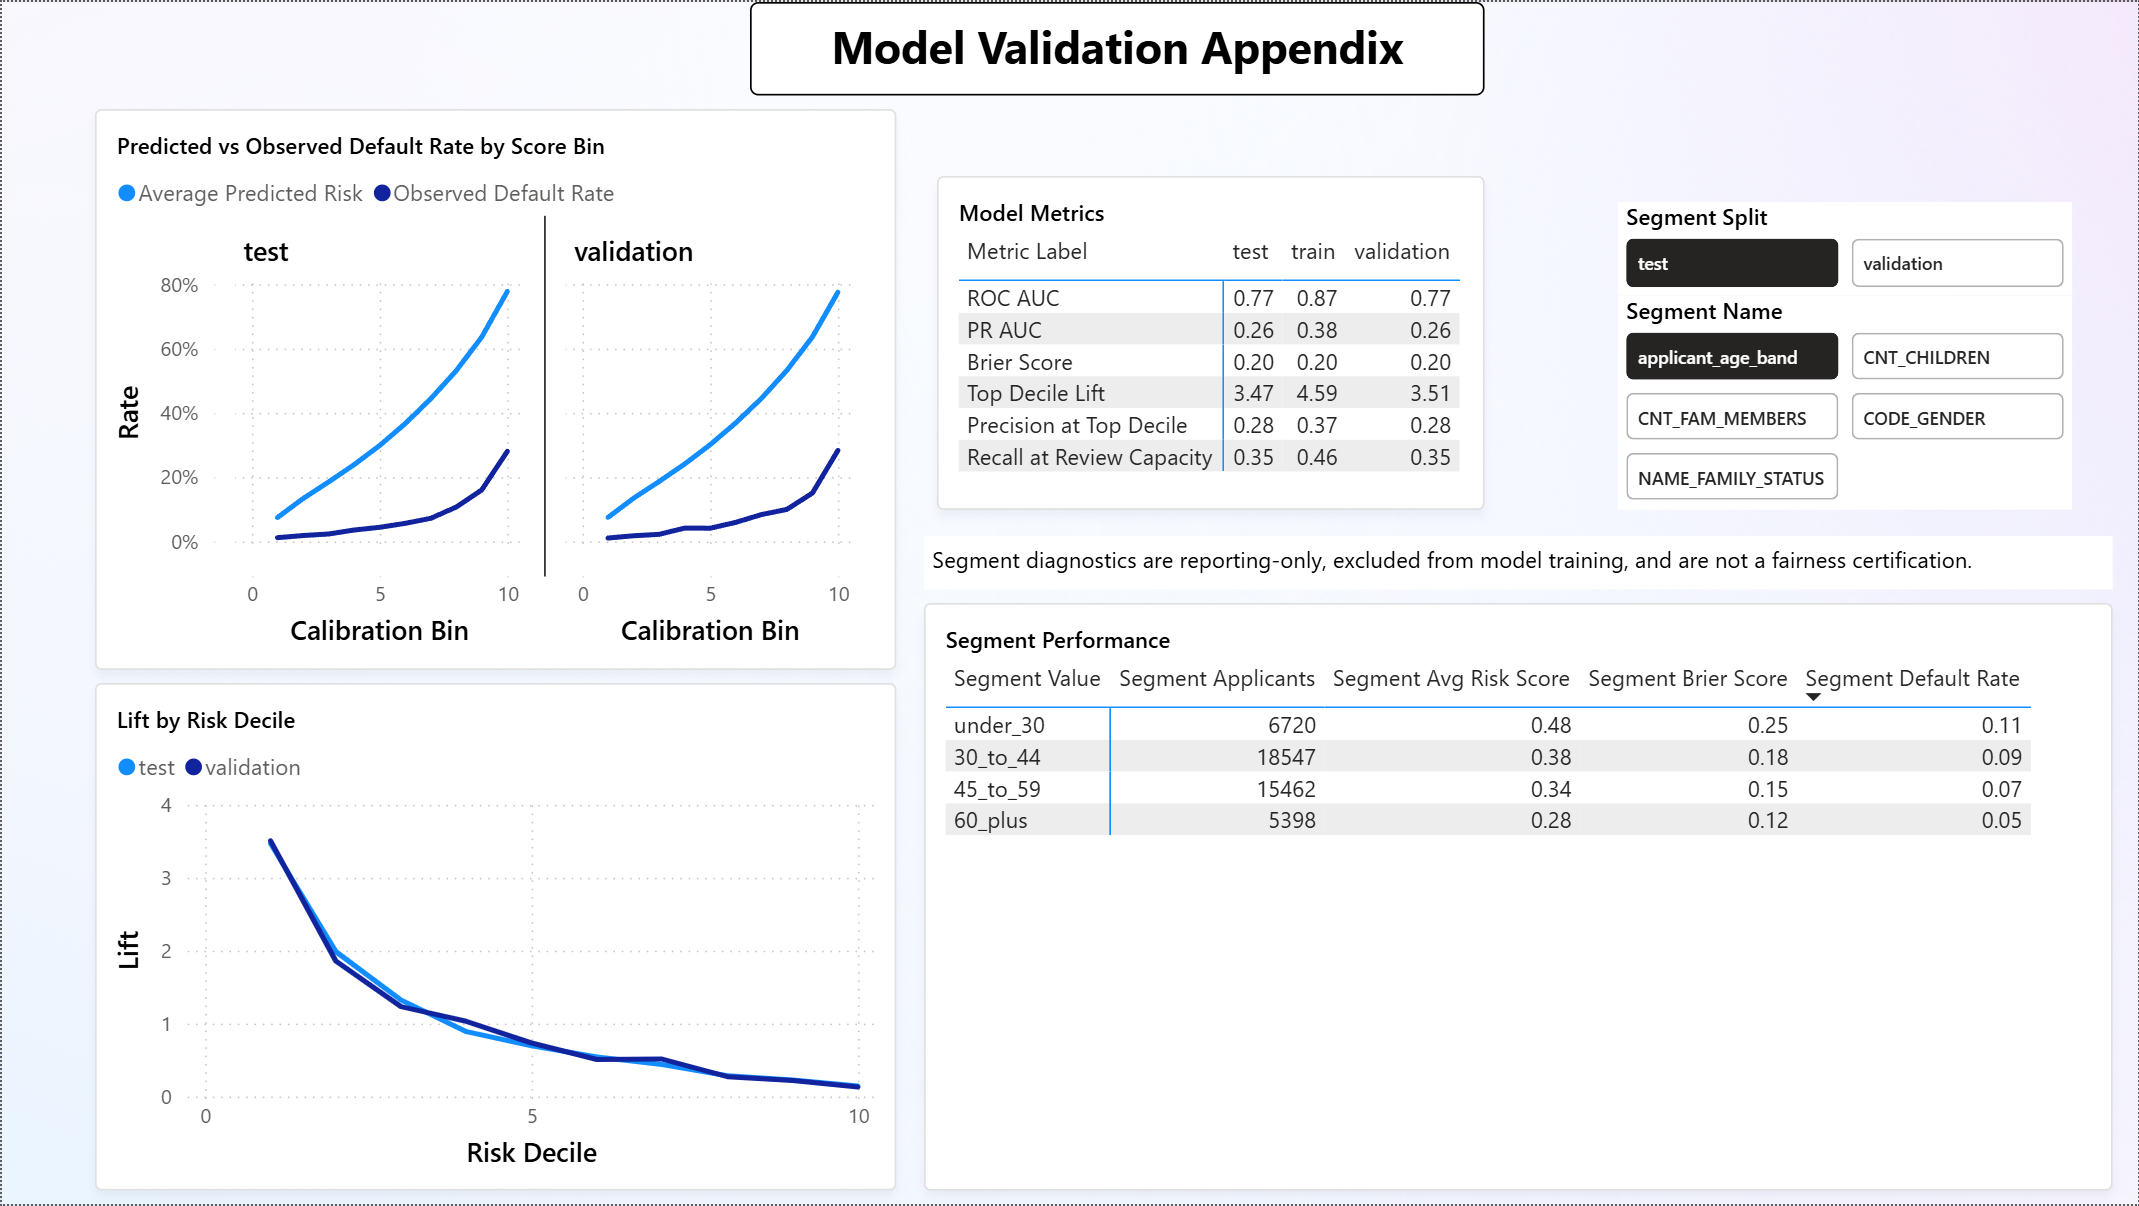
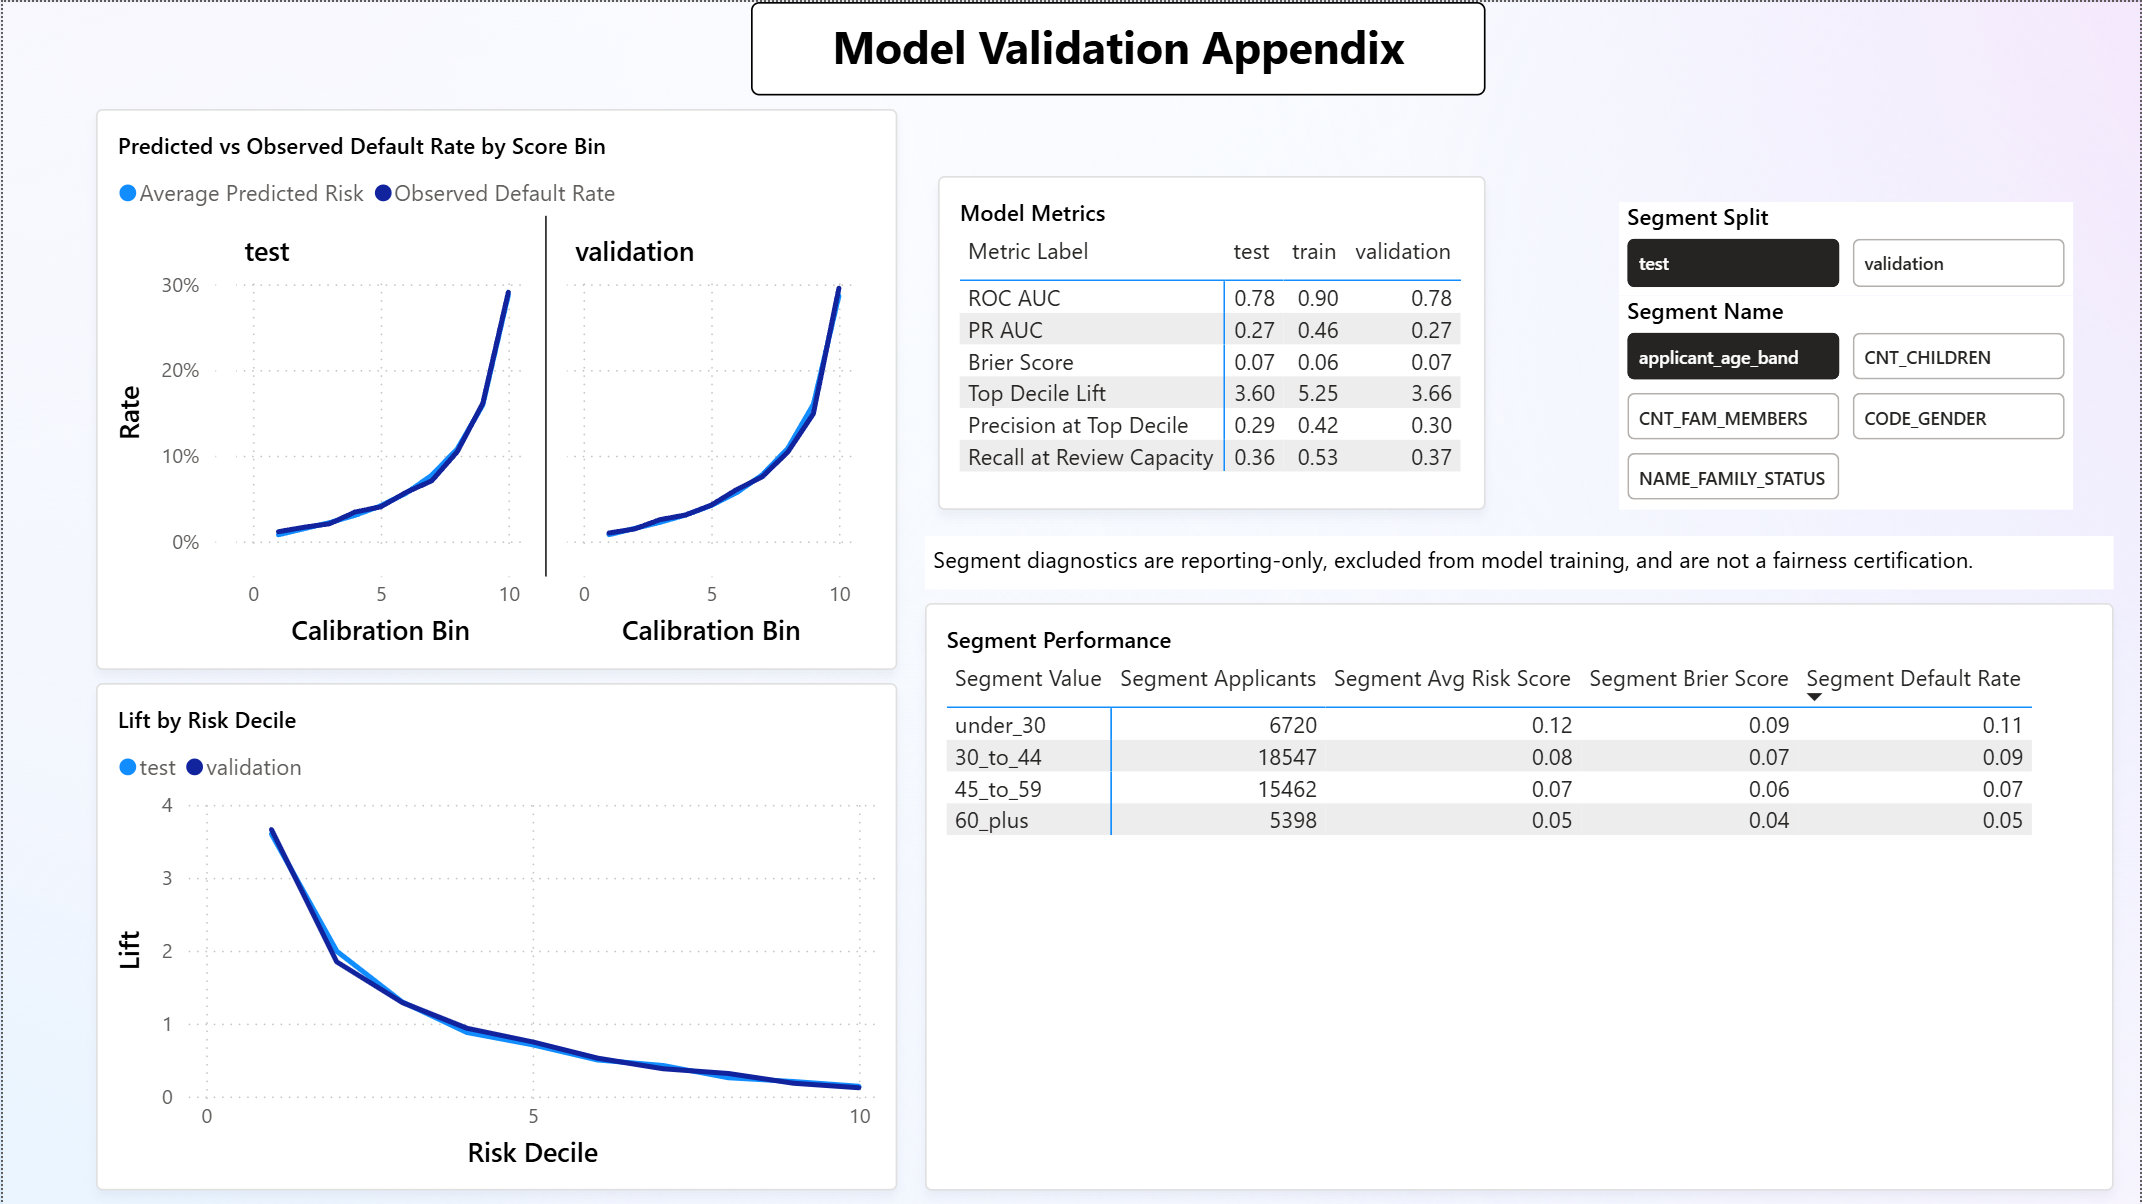
Refine frozen docs and dashboard screenshots for final v1/post-v1 freeze

diff --git a/reports/model_card.md b/reports/model_card.md
@@ -73,14 +73,14 @@ LightGBM tuning is bounded and validation-only. Candidate selection uses a non-d
 
 No Platt/sigmoid or isotonic calibration layer is fitted in v1. Brier score and calibration bins are reported to evaluate score quality, but they do not make the raw LightGBM scores calibrated probabilities.
 
-Post-v1 Experiment 004 fits a separate sigmoid calibration layer on the validation split for the Experiment 003 LightGBM model. This materially improves probability-quality metrics while preserving rank metrics, and it is documented as an experiment artifact rather than a v1 production probability-of-default model.
+Post-v1 fits a separate sigmoid calibration layer on the validation split for the selected LightGBM model. This materially improves probability-quality metrics while preserving rank metrics, and it is documented as an experiment artifact rather than a production probability-of-default model.
 
 | Post-v1 calibration result | Uncalibrated | Sigmoid calibrated | Difference |
 |---|---:|---:|---:|
-| Validation Brier score | 0.175712 | 0.066535 | -0.109176 |
-| Held-out test Brier score | 0.174848 | 0.066550 | -0.108298 |
-| Validation weighted bin error | 0.296805 | 0.002704 | -0.294101 |
-| Held-out test weighted bin error | 0.295293 | 0.002823 | -0.292470 |
+| Validation Brier score | 0.174335 | 0.066500 | -0.107835 |
+| Held-out test Brier score | 0.173301 | 0.066460 | -0.106842 |
+| Validation weighted bin error | 0.289885 | 0.003634 | -0.286251 |
+| Held-out test weighted bin error | 0.288304 | 0.002709 | -0.285595 |
 
 Batch scoring and dashboard exports now retain both `raw_risk_score` and `calibrated_risk_score`, with `calibration_method` documenting the applied sigmoid layer. The original `score` column remains the rank-policy score used by the current threshold workflow. Post-v1 dashboard exports relabel the selected model as `lightgbm_credit_risk_post_v1` so the improved comparison bundle is distinct from frozen v1.
 
@@ -88,11 +88,11 @@ Post-v1 Experiments 005-014 form a validation-first learning trail rather than a
 
 The post-v1 caveat is calibration-bin behavior: weighted calibration error worsens slightly versus the prior post-v1 candidate, even though Brier improves. The full v1-to-post-v1 summary is in `reports/experiments/v1_to_post_v1_model_diff.md`.
 
-Frozen v1 selected candidate from `reports/lightgbm_tuning_summary.csv`:
+Frozen v1 selected candidate from `reports/v1/lightgbm_tuning_summary.csv`:
 
 | Candidate | PR-AUC | ROC-AUC | Brier | Top-decile lift | Recall at 10% review capacity |
 |---|---:|---:|---:|---:|---:|
-| `feature_subsample_regularized` | 0.258667 | 0.769216 | 0.171864 | 3.506754 | 0.350698 |
+| `feature_subsample_regularized` | 0.260173 | 0.770420 | 0.171640 | 3.490643 | 0.349087 |
 
 ## Metrics
 
@@ -100,32 +100,32 @@ Frozen v1 LightGBM metrics:
 
 | Split | PR-AUC | ROC-AUC | Brier | Top-decile lift | Recall at 10% review capacity |
 |---|---:|---:|---:|---:|---:|
-| Validation | 0.258667 | 0.769216 | 0.171864 | 3.506754 | 0.350698 |
-| Held-out test | 0.257943 | 0.771017 | 0.171325 | 3.471847 | 0.347207 |
+| Validation | 0.260173 | 0.770420 | 0.171640 | 3.490643 | 0.349087 |
+| Held-out test | 0.258236 | 0.770385 | 0.171245 | 3.482588 | 0.348281 |
 
 Validation comparison to logistic regression:
 
 | Metric | Logistic regression | LightGBM | Difference |
 |---|---:|---:|---:|
-| PR-AUC | 0.244617 | 0.258667 | [phone redacted] |
-| ROC-AUC | 0.757608 | 0.769216 | [phone redacted] |
-| Brier score | 0.200474 | 0.171864 | -0.028610 |
-| Top-decile lift | 3.337592 | 3.506754 | [phone redacted] |
-| Recall at 10% review capacity | 0.333781 | 0.350698 | [phone redacted] |
+| PR-AUC | 0.244617 | 0.260173 | [phone redacted] |
+| ROC-AUC | 0.757608 | 0.770420 | [phone redacted] |
+| Brier score | 0.200474 | 0.171640 | -0.028835 |
+| Top-decile lift | 3.337592 | 3.490643 | [phone redacted] |
+| Recall at 10% review capacity | 0.333781 | 0.349087 | [phone redacted] |
 
 Post-v1 improvement summary:
 
 | Metric | Frozen v1 | Best post-v1 | Difference |
 |---|---:|---:|---:|
 | Feature count | 68 | 168 | +100 |
-| Validation PR-AUC | 0.258667 | 0.271879 | [phone redacted] |
-| Validation ROC-AUC | 0.769216 | 0.780531 | [phone redacted] |
-| Validation Brier score | 0.171864 | 0.066419 | -0.105445 |
-| Validation top-decile lift | 3.506754 | 3.651750 | [phone redacted] |
-| Validation recall at 10% review capacity | 0.350698 | 0.365199 | [phone redacted] |
-| Validation balanced EV / applicant | 570.48 | 580.80 | +10.32 |
+| Validation PR-AUC | 0.260173 | 0.272184 | [phone redacted] |
+| Validation ROC-AUC | 0.770420 | 0.778732 | [phone redacted] |
+| Validation Brier score | 0.171640 | 0.066500 | -0.105139 |
+| Validation top-decile lift | 3.490643 | 3.659805 | [phone redacted] |
+| Validation recall at 10% review capacity | 0.349087 | 0.366004 | [phone redacted] |
+| Validation balanced EV / applicant | 571.52 | 577.24 | +5.72 |
 
-The post-v1 values summarize the promoted 168-feature candidate from repeated-seed validation. Held-out test remains a post-selection generalization check and is reported in `reports/experiments/v1_to_post_v1_model_diff.md`.
+The post-v1 values summarize the frozen final dashboard export for the promoted 168-feature candidate. Held-out test remains a post-selection generalization check and is reported in `reports/experiments/v1_to_post_v1_model_diff.md`.
 
 ## Threshold Policy
 
@@ -143,9 +143,9 @@ The thresholds below are cutoffs on uncalibrated model scores. They are valid fo
 
 | Scenario | `T_low` | `T_high` | Test approval rate | Test review rate | Test high-risk rate | Test EV / applicant |
 |---|---:|---:|---:|---:|---:|---:|
-| Growth-oriented | 0.634183 | 0.766934 | 0.8490 | 0.0987 | 0.0522 | 582.09 |
-| Balanced | 0.581632 | 0.694617 | 0.8008 | 0.0973 | 0.1019 | 575.44 |
-| Risk-averse | 0.485847 | 0.581632 | 0.7013 | 0.0995 | 0.1992 | 539.41 |
+| Growth-oriented | 0.635669 | 0.766724 | 0.8503 | 0.0976 | 0.0520 | 583.62 |
+| Balanced | 0.580982 | 0.695323 | 0.8010 | 0.0967 | 0.1023 | 572.03 |
+| Risk-averse | 0.485034 | 0.580982 | 0.7009 | 0.1001 | 0.1990 | 537.84 |
 
 ## Expected-Value Assumptions
 
@@ -217,11 +217,16 @@ make pipeline-post-v1
 
 Key generated artifacts:
 
-- `reports/model_metrics_summary.csv`
-- `reports/lightgbm_tuning_summary.csv`
-- `reports/model_threshold_metrics.csv`
-- `reports/business_value_analysis.md`
-- `reports/model_feature_importance.csv`
+- `reports/v1/model_metrics_summary.csv`
+- `reports/post_v1/model_metrics_summary.csv`
+- `reports/v1/lightgbm_tuning_summary.csv`
+- `reports/post_v1/lightgbm_tuning_summary.csv`
+- `reports/v1/model_threshold_metrics.csv`
+- `reports/post_v1/model_threshold_metrics.csv`
+- `reports/v1/business_value_analysis.md`
+- `reports/post_v1/business_value_analysis.md`
+- `reports/v1/model_feature_importance.csv`
+- `reports/post_v1/model_feature_importance.csv`
 - `reports/dashboard_data/`
 - `reports/dashboard_data_post_v1/`
 - `reports/v1/`

diff --git a/README.md b/README.md
@@ -70,14 +70,14 @@ The project trains a logistic regression baseline and a tuned LightGBM primary m
 
 v1 scores are not fitted calibrated default probabilities. The project evaluates probability quality with Brier score and calibration bins, but no Platt/sigmoid or isotonic calibration layer is fitted in v1. Treat score thresholds as validation-derived ranking cutoffs, not as literal default-probability policy thresholds.
 
-Post-v1 Experiment 004 adds a separate sigmoid calibration artifact for the Experiment 003 LightGBM model. This is one of the strongest post-v1 improvements: held-out test Brier score improves from `0.174848` to `0.066550`, and weighted calibration-bin error improves from `0.295293` to `0.002823` without changing rank metrics.
+Post-v1 adds a separate sigmoid calibration artifact for the 168-feature LightGBM model. This is one of the strongest post-v1 improvements: held-out test Brier score improves from `0.173301` to `0.066460`, and weighted calibration-bin error improves from `0.288304` to `0.002709` without changing rank metrics.
 
 | Post-v1 calibration result | Uncalibrated | Sigmoid calibrated | Difference |
 |---|---:|---:|---:|
-| Validation Brier score | 0.175712 | 0.066535 | -0.109176 |
-| Test Brier score | 0.174848 | 0.066550 | -0.108298 |
-| Validation weighted bin error | 0.296805 | 0.002704 | -0.294101 |
-| Test weighted bin error | 0.295293 | 0.002823 | -0.292470 |
+| Validation Brier score | 0.174335 | 0.066500 | -0.107835 |
+| Test Brier score | 0.173301 | 0.066460 | -0.106842 |
+| Validation weighted bin error | 0.289885 | 0.003634 | -0.286251 |
+| Test weighted bin error | 0.288304 | 0.002709 | -0.285595 |
 
 Batch scoring and dashboard exports keep the original rank score as `score` / `raw_risk_score` and add `calibrated_risk_score` plus `calibration_method`. This preserves the existing threshold-policy audit trail while making calibrated score quality visible downstream.
 
@@ -93,18 +93,18 @@ Selected v1 model: `lightgbm` (`lightgbm_credit_risk_v1`).
 
 | Split | PR-AUC | ROC-AUC | Brier | Top-decile lift | Recall at 10% review capacity |
 |---|---:|---:|---:|---:|---:|
-| Validation | 0.258667 | 0.769216 | 0.171864 | 3.506754 | 0.350698 |
-| Held-out test | 0.257943 | 0.771017 | 0.171325 | 3.471847 | 0.347207 |
+| Validation | 0.260173 | 0.770420 | 0.171640 | 3.490643 | 0.349087 |
+| Held-out test | 0.258236 | 0.770385 | 0.171245 | 3.482588 | 0.348281 |
 
 Validation comparison against the logistic regression baseline:
 
 | Metric | Logistic regression | LightGBM | Difference |
 |---|---:|---:|---:|
-| PR-AUC | 0.244617 | 0.258667 | [phone redacted] |
-| ROC-AUC | 0.757608 | 0.769216 | [phone redacted] |
-| Brier score | 0.200474 | 0.171864 | -0.028610 |
-| Top-decile lift | 3.337592 | 3.506754 | [phone redacted] |
-| Recall at 10% review capacity | 0.333781 | 0.350698 | [phone redacted] |
+| PR-AUC | 0.244617 | 0.260173 | [phone redacted] |
+| ROC-AUC | 0.757608 | 0.770420 | [phone redacted] |
+| Brier score | 0.200474 | 0.171640 | -0.028835 |
+| Top-decile lift | 3.337592 | 3.490643 | [phone redacted] |
+| Recall at 10% review capacity | 0.333781 | 0.349087 | [phone redacted] |
 
 ## Post-v1 Improvement Summary
 
@@ -113,12 +113,12 @@ The best post-v1 candidate is the 168-feature last-k temporal LightGBM setup wit
 | Metric | Frozen v1 | Best post-v1 | Difference |
 |---|---:|---:|---:|
 | Feature count | 68 | 168 | +100 |
-| Validation PR-AUC | 0.258667 | 0.271879 | [phone redacted] |
-| Validation ROC-AUC | 0.769216 | 0.780531 | [phone redacted] |
-| Validation Brier score | 0.171864 | 0.066419 | -0.105445 |
-| Validation top-decile lift | 3.506754 | 3.651750 | [phone redacted] |
-| Validation recall at 10% review capacity | 0.350698 | 0.365199 | [phone redacted] |
-| Validation balanced EV / applicant | 570.48 | 580.80 | +10.32 |
+| Validation PR-AUC | 0.260173 | 0.272184 | [phone redacted] |
+| Validation ROC-AUC | 0.770420 | 0.778732 | [phone redacted] |
+| Validation Brier score | 0.171640 | 0.066500 | -0.105139 |
+| Validation top-decile lift | 3.490643 | 3.659805 | [phone redacted] |
+| Validation recall at 10% review capacity | 0.349087 | 0.366004 | [phone redacted] |
+| Validation balanced EV / applicant | 571.52 | 577.24 | +5.72 |
 
 The biggest lesson was not "more features always win." The experiment trail showed that calibration gave the cleanest probability-quality gain, recent repayment behavior was the strongest feature-engineering direction, and cleanup did not justify dropping the final 16 features. Held-out test remains a post-selection generalization check, not the optimization target.
 
@@ -138,7 +138,7 @@ These thresholds are score cutoffs from the selected uncalibrated model. They ar
 
 | Scenario | `T_low` | `T_high` | Test approval rate | Test review rate | Test high-risk rate | Test EV / applicant |
 |---|---:|---:|---:|---:|---:|---:|
-| Balanced | 0.581632 | 0.694617 | 0.8008 | 0.0973 | 0.1019 | 575.44 |
+| Balanced | 0.580982 | 0.695323 | 0.8010 | 0.0967 | 0.1023 | 572.03 |
 
 ## Expected-Value Framework
 
@@ -177,12 +177,16 @@ Power BI consumes CSV exports from `reports/dashboard_data/`, which are generate
 | Artifact | Purpose |
 |---|---|
 | `mart_credit_risk_features` | One-row-per-applicant feature mart |
-| `models/lightgbm_credit_risk.joblib` | Selected tuned LightGBM artifact |
-| `reports/model_metrics_summary.csv` | Model metrics by split |
-| `reports/lightgbm_tuning_summary.csv` | LightGBM candidate comparison |
-| `reports/model_threshold_metrics.csv` | Threshold scenario metrics |
-| `reports/business_value_analysis.md` | Expected-value scenario summary |
-| `reports/model_feature_importance.csv` | SHAP global feature importance |
+| `models/v1/` | Frozen v1 model artifacts |
+| `models/post_v1/` | Frozen best post-v1 model artifacts |
+| `reports/v1/model_metrics_summary.csv` | Frozen v1 model metrics by split |
+| `reports/post_v1/model_metrics_summary.csv` | Frozen post-v1 model metrics by split |
+| `reports/v1/lightgbm_tuning_summary.csv` | Frozen v1 LightGBM candidate comparison |
+| `reports/post_v1/lightgbm_tuning_summary.csv` | Frozen post-v1 LightGBM candidate comparison |
+| `reports/v1/model_threshold_metrics.csv` | Frozen v1 threshold scenario metrics |
+| `reports/post_v1/model_threshold_metrics.csv` | Frozen post-v1 threshold scenario metrics |
+| `reports/v1/model_feature_importance.csv` | Frozen v1 SHAP global feature importance |
+| `reports/post_v1/model_feature_importance.csv` | Frozen post-v1 SHAP global feature importance |
 | `reports/model_card.md` | Intended use, limitations, and validation summary |
 | `reports/experiments/` | Post-v1 experiment reports and comparison log |
 | `reports/experiments/v1_to_post_v1_model_diff.md` | Recruiter-friendly v1 to best post-v1 improvement summary |

diff --git a/reports/experiments/000_v1_baseline.md b/reports/experiments/000_v1_baseline.md
@@ -32,12 +32,12 @@ v1 source files:
 
 | Metric | Value |
 |---|---:|
-| PR-AUC | 0.258667 |
-| ROC-AUC | 0.769216 |
-| Brier score | 0.171864 |
-| Top-decile lift | 3.506754 |
-| Precision at top decile | 0.283113 |
-| Recall at 10% review capacity | 0.350698 |
+| PR-AUC | 0.260173 |
+| ROC-AUC | 0.770420 |
+| Brier score | 0.171640 |
+| Top-decile lift | 3.490643 |
+| Precision at top decile | 0.281812 |
+| Recall at 10% review capacity | 0.349087 |
 
 Calibration note: v1 reports Brier score and calibration bins, but it does not fit a Platt/sigmoid or isotonic calibration layer. Scores should be treated as ranking scores, not calibrated default probabilities.
 
@@ -45,19 +45,19 @@ Calibration note: v1 reports Brier score and calibration bins, but it does not f
 
 | Metric | Value |
 |---|---:|
-| PR-AUC | 0.257943 |
-| ROC-AUC | 0.771017 |
-| Brier score | 0.171325 |
-| Top-decile lift | 3.471847 |
-| Precision at top decile | 0.280295 |
-| Recall at 10% review capacity | 0.347207 |
+| PR-AUC | 0.258236 |
+| ROC-AUC | 0.770385 |
+| Brier score | 0.171245 |
+| Top-decile lift | 3.482588 |
+| Precision at top decile | 0.281162 |
+| Recall at 10% review capacity | 0.348281 |
 
 ## Balanced Scenario Metrics
 
 | Split | Approval rate | Review rate | High-risk rate | High-risk default capture | EV / applicant |
 |---|---:|---:|---:|---:|---:|
-| Validation | 0.8000 | 0.1000 | 0.1000 | 0.3507 | 570.48 |
-| Held-out test | 0.8008 | 0.0973 | 0.1019 | 0.3523 | 575.44 |
+| Validation | 0.8000 | 0.1000 | 0.1000 | 0.3491 | 571.52 |
+| Held-out test | 0.8010 | 0.0967 | 0.1023 | 0.3539 | 572.03 |
 
 ## Top SHAP Drivers
 
@@ -66,13 +66,13 @@ Top global drivers from `reports/model_feature_importance.csv`:
 1. Ext source mean
 2. Avg credit to application ratio
 3. Amt goods price
-4. Amt credit
-5. Ext source max
-6. Ext source min
-7. Employment length days
+4. Ext source max
+5. Amt credit
+6. Employment length days
+7. Ext source min
 8. Max payment delay days
 9. Name education type: Higher education
-10. Amt annuity
+10. Total credit debt
 
 ## Conclusion
 

diff --git a/reports/experiments/experiment_template.md b/reports/experiments/experiment_template.md
@@ -21,32 +21,32 @@ Example:
 
 | Metric | v1 baseline | Experiment | Difference |
 |---|---:|---:|---:|
-| PR-AUC | 0.258667 |  |  |
-| ROC-AUC | 0.769216 |  |  |
-| Brier score | 0.171864 |  |  |
-| Top-decile lift | 3.506754 |  |  |
-| Precision at top decile | 0.283113 |  |  |
-| Recall at 10% review capacity | 0.350698 |  |  |
+| PR-AUC | 0.260173 |  |  |
+| ROC-AUC | 0.770420 |  |  |
+| Brier score | 0.171640 |  |  |
+| Top-decile lift | 3.490643 |  |  |
+| Precision at top decile | 0.281812 |  |  |
+| Recall at 10% review capacity | 0.349087 |  |  |
 
 ## Held-Out Test Metrics
 
 | Metric | v1 baseline | Experiment | Difference |
 |---|---:|---:|---:|
-| PR-AUC | 0.257943 |  |  |
-| ROC-AUC | 0.771017 |  |  |
-| Brier score | 0.171325 |  |  |
-| Top-decile lift | 3.471847 |  |  |
-| Precision at top decile | 0.280295 |  |  |
-| Recall at 10% review capacity | 0.347207 |  |  |
+| PR-AUC | 0.258236 |  |  |
+| ROC-AUC | 0.770385 |  |  |
+| Brier score | 0.171245 |  |  |
+| Top-decile lift | 3.482588 |  |  |
+| Precision at top decile | 0.281162 |  |  |
+| Recall at 10% review capacity | 0.348281 |  |  |
 
 ## Balanced Scenario Metrics
 
 | Metric | v1 baseline | Experiment | Difference |
 |---|---:|---:|---:|
-| Validation EV / applicant | 570.48 |  |  |
-| Test EV / applicant | 575.44 |  |  |
-| Validation high-risk default capture | 0.3507 |  |  |
-| Test high-risk default capture | 0.3523 |  |  |
+| Validation EV / applicant | 571.52 |  |  |
+| Test EV / applicant | 572.03 |  |  |
+| Validation high-risk default capture | 0.3491 |  |  |
+| Test high-risk default capture | 0.3539 |  |  |
 
 ## Feature Exploration Notes
 

diff --git a/reports/experiments/v1_to_post_v1_model_diff.md b/reports/experiments/v1_to_post_v1_model_diff.md
@@ -21,22 +21,23 @@ The answer is yes. The best supported post-v1 candidate is the 168-feature last-
 
 ## Metric Diff
 
-The table below compares the frozen v1 baseline with the active post-v1 candidate recorded in Experiment 014. V1 is a frozen single-split baseline. The post-v1 values are repeated-seed validation means for the promoted 168-feature candidate, so this is best read as a portfolio-level improvement summary rather than a perfectly identical single-run comparison.
+The table below compares the frozen v1 dashboard export with the frozen post-v1 dashboard export. Historical experiments still document the learning trail, including repeated-seed stability checks, but these final values are the current artifacts that feed the Power BI comparison bundle.
 
 | Metric | V1 baseline | Best post-v1 | Difference |
 |---|---:|---:|---:|
 | Feature count | 68 | 168 | +100 |
-| Validation PR-AUC | 0.258667 | 0.271879 | [phone redacted] |
-| Validation ROC-AUC | 0.769216 | 0.780531 | [phone redacted] |
-| Validation Brier score | 0.171864 | 0.066419 | -0.105445 |
-| Validation top-decile lift | 3.506754 | 3.651750 | [phone redacted] |
-| Validation recall at 10% review capacity | 0.350698 | 0.365199 | [phone redacted] |
-| Validation balanced EV / applicant | 570.48 | 580.80 | +10.32 |
-| Held-out test PR-AUC | 0.257943 | 0.264566 | [phone redacted] |
-| Held-out test Brier score | 0.171325 | 0.066677 | -0.104648 |
-| Held-out test top-decile lift | 3.471847 | 3.610578 | [phone redacted] |
-| Held-out test recall at 10% review capacity | 0.347207 | 0.361081 | [phone redacted] |
-| Held-out test balanced EV / applicant | 575.44 | 577.91 | +2.47 |
+| Validation PR-AUC | 0.260173 | 0.272184 | [phone redacted] |
+| Validation ROC-AUC | 0.770420 | 0.778732 | [phone redacted] |
+| Validation Brier score | 0.171640 | 0.066500 | -0.105139 |
+| Validation top-decile lift | 3.490643 | 3.659805 | [phone redacted] |
+| Validation recall at 10% review capacity | 0.349087 | 0.366004 | [phone redacted] |
+| Validation balanced EV / applicant | 571.52 | 577.24 | +5.72 |
+| Held-out test PR-AUC | 0.258236 | 0.269925 | [phone redacted] |
+| Held-out test ROC-AUC | 0.770385 | 0.780208 | [phone redacted] |
+| Held-out test Brier score | 0.171245 | 0.066460 | -0.104786 |
+| Held-out test top-decile lift | 3.482588 | 3.600733 | [phone redacted] |
+| Held-out test recall at 10% review capacity | 0.348281 | 0.360097 | [phone redacted] |
+| Held-out test balanced EV / applicant | 572.03 | 581.58 | +9.55 |
 
 Lower Brier score is better. The large Brier improvement is mainly the result of adding sigmoid calibration, not just adding more features.
 

diff --git a/reports/experiments/README.md b/reports/experiments/README.md
@@ -11,7 +11,7 @@ The frozen v1 baseline is recorded in:
 - `000_v1_baseline.md`
 - `experiment_log.csv`
 
-Do not edit the baseline values after post-v1 experiments begin unless v1 itself is intentionally re-frozen.
+The baseline was intentionally re-frozen after the separate `pipeline-v1` and `pipeline-post-v1` artifact paths were added. `000_v1_baseline.md` and row `000` in `experiment_log.csv` now reflect the final frozen v1 dashboard data. Historical experiment reports `001`-`014` preserve the metrics recorded at the time of each experiment; row `015` records the final post-v1 dashboard freeze used for the recruiter-facing comparison.
 
 ## Experiment Rule
 
@@ -84,6 +84,7 @@ Do not promote or demote an experiment because held-out test looks better or wor
 012_last_k_model_stability.md
 013_feature_cleanup.md
 014_feature_cleanup_stability.md
+015 final pipeline freeze row in experiment_log.csv
 v1_to_post_v1_model_diff.md
 post_v1_results_summary.md
 ```

diff --git a/reports/experiments/post_v1_results_summary.md b/reports/experiments/post_v1_results_summary.md
@@ -18,10 +18,11 @@ This file summarizes the post-v1 model-improvement trail. Selection decisions us
 | 012 | Last-k temporal model stability | Repeated-seed validation PR-AUC, PR-AUC stability, ROC-AUC, calibrated Brier, lift, precision, recall, and EV improved versus the promoted 152-feature recency setup; weighted calibration error worsened slightly. | Promote as leading post-v1 candidate, with calibration-bin caveat. |
 | 013 | Feature cleanup top-N comparison | Smaller SHAP-ranked surfaces did not beat the full 168-feature setup by the validation ranking rule; `top_152` was closest and improved one-shot validation EV. | Do not promote from one-shot cleanup; run focused stability for `top_152`. |
 | 014 | Feature cleanup stability | `top_152` won two of three individual seeds, but full 168 had better mean validation PR-AUC, lower variance, Brier, lift, recall, calibration-bin error, and EV. | Keep 168-feature active candidate; stop feature expansion for this project. |
+| 015 | Final pipeline freeze | Frozen dashboard artifacts report validation PR-AUC `0.272184`, ROC-AUC `0.778732`, Brier `0.066500`, lift `3.659805`, recall `0.366004`, and balanced EV/applicant `577.24`. | Use this row for final dashboard/docs alignment; do not rerun the pipeline. |
 
 ## Current Read
 
-The best fully supported post-v1 story is now the 168-feature last-k temporal model with sigmoid calibration. Experiment 012 clears the repeated-seed validation check by the existing validation-first selection rule: mean validation PR-AUC, PR-AUC stability, ROC-AUC, calibrated Brier, top-decile lift, precision, recall, and balanced expected value all improve versus the promoted 152-feature recency setup.
+The best fully supported post-v1 story is now the 168-feature last-k temporal model with sigmoid calibration. Experiment 012 clears the repeated-seed validation check by the existing validation-first selection rule: mean validation PR-AUC, PR-AUC stability, ROC-AUC, calibrated Brier, top-decile lift, precision, recall, and balanced expected value all improve versus the promoted 152-feature recency setup. Experiment 015 records the final frozen single-run artifacts used by the dashboard and final docs.
 
 This is not a clean win on every metric. Mean validation weighted calibration error is slightly worse (`0.002915` vs `0.002870`), and mean held-out test weighted calibration error is also slightly worse. Brier score improves, so this is a calibration-bin caveat rather than a broad probability-quality failure. Under the current ranking/calibration/business-value rule, the last-k temporal model becomes the leading post-v1 candidate.
 